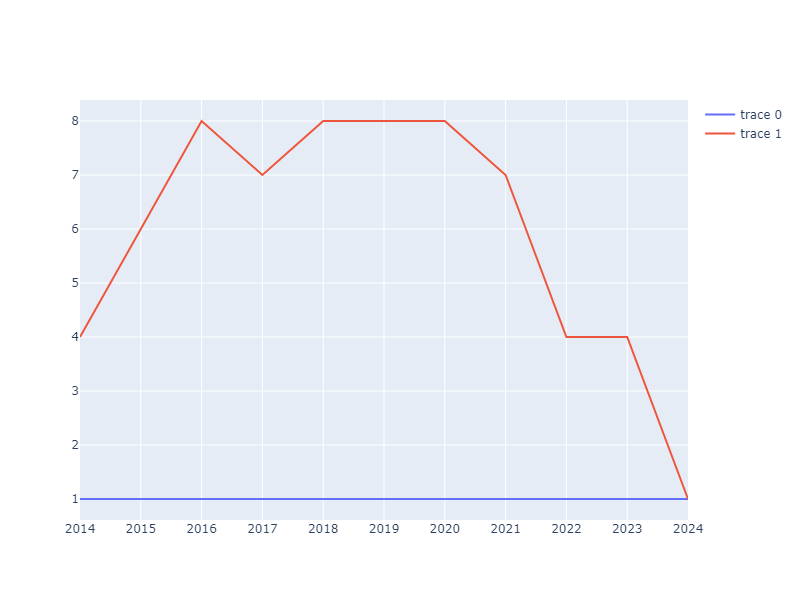
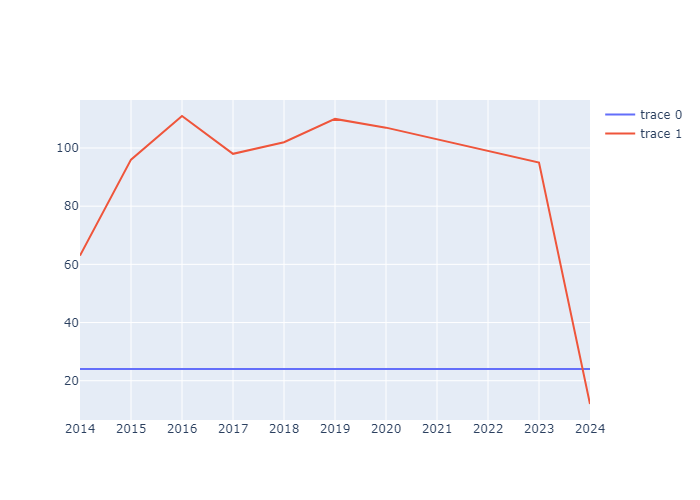
09.12.2024

diff --git a/main.py b/main.py
@@ -1,12 +1,12 @@
-from by_matplotlib import simple_mpl
+from by_matplotlib import simple_mpl, hard_mpl
 from by_seaborn import simple_sns
-# from by_plotly import simple_ptl
+from by_plotly import simple_ptl
 
 
 import sys
 import pandas as pd
 from PySide6.QtWidgets import QApplication, QMainWindow, QFileDialog
-from PySide6.QtGui import QPixmap, Qt
+from PySide6.QtGui import QPixmap
 from ui_main import Ui_MainWindow
 
 class Vis(QMainWindow):
@@ -19,7 +19,7 @@ class Vis(QMainWindow):
 
     def browse_(self):
         # Объявление глобальных переменных и диалоговое окно выбора таблицы
-        global period, norm_name, names, df_mp
+        global period, norm_name, names, df_mp, statH
         file = QFileDialog.getOpenFileName(self, caption='Открыть таблицу', filter=('Таблицы (*.xlsx)'))
 
         # Предобработка данных
@@ -44,36 +44,46 @@ class Vis(QMainWindow):
             print('Неверные импортируемые данные, проверьте таблицу на соответствие требованиям к форме')
 
     def index_changed(self, i):
-            #
+            # Задаем имя параметра для представления
             name = names[i]
 
             # Получаем список значений для представления по имени и норму
             pre_list = [int(i) for i in df_mp.iloc[names.index(name)] if type(i) is not str]
             stat = pre_list[1:]
             norm_nums = [pre_list[0] for i in stat]
+            statH = []
+            statH.clear()
+            for i in range(0, len(names)):
+                j = list(df_mp.iloc[i])
+                statH.append(j)
+
+            hard_mpl(period, statH)
 
             # Преобразуем данные в удобочитаемый датафрейм
             zip_l = list(zip(norm_nums, stat, period))
             data_l = [list(i) for i in zip_l]
             df = pd.DataFrame(data_l, columns=[norm_name, 'Факт', 'Год'])
 
-            # Выводим результаты работы MatplotLib
+            # Выводим результаты работы упрощенного графика MatplotLib
             self.ui.t_mpl_s.setText(simple_mpl(period, norm_nums, stat))
             px_simple_mpl = QPixmap('simple_plots/simple_mpl.png')
             self.ui.mpl_g_s.setScaledContents(True)
             self.resize(px_simple_mpl.width(), px_simple_mpl.height())
             self.ui.mpl_g_s.setPixmap(px_simple_mpl)
 
-            # Выводим результаты работы Seaborn
+            # Выводим результаты работы упрощенного графика Seaborn
             self.ui.t_sns_s.setText(simple_sns(df))
             px_simple_sns = QPixmap('simple_plots/simple_sns.png')
             self.ui.sns_g_s.setScaledContents(True)
             self.resize(px_simple_sns.width(), px_simple_sns.height())
             self.ui.sns_g_s.setPixmap(px_simple_sns)
 
-            # Выводим результаты работы Plotly
-            # self.ui.t_ptl_s.setText(simple_ptl(period, norm_nums, stat))
-
+            # Выводим результаты работы упрощенного графика Plotly
+            self.ui.t_ptl_s.setText(simple_ptl(period, norm_nums, stat))
+            px_simple_ptl = QPixmap('simple_plots/simple_plt.png')
+            self.ui.ptl_g_s.setScaledContents(True)
+            self.resize(px_simple_ptl.width(), px_simple_ptl.height())
+            self.ui.ptl_g_s.setPixmap(px_simple_ptl)
 
 
 

diff --git a/by_plotly.py b/by_plotly.py
@@ -1,7 +1,7 @@
 import os
 import plotly.graph_objs as go
 import datetime
-from excel_reader import *
+# from excel_reader import *
 
 
 # period - период для представления
@@ -11,16 +11,16 @@ from excel_reader import *
 # stat - статистика объекта представления
 
 
-def simple_ptl():
+def simple_ptl(period, norm_nums, stat):
     t_ptl1 = datetime.datetime.now()
     fig = go.Figure()
     fig.add_trace(go.Scatter(x=period, y=norm_nums, mode='lines'))
     fig.add_trace(go.Scatter(x=period, y=stat, mode='lines'))
-    if not os.path.exists('simple_plots/simple_mpl.png'):
+    if not os.path.exists('simple_plots/simple_plt.png'):
         os.mkdir('simple_plots/')
-    fig.write_image('simple_plots/simple_mpl.png')
+    else:
+        os.remove('simple_plots/simple_plt.png')
+    name = 'simple_plt'
+    fig.write_image(f'simple_plots/{name}.png')
     t_ptl2 = datetime.datetime.now()
-    print(f'{t_ptl2 - t_ptl1}')
-
-
-simple_ptl()
+    return f'{t_ptl2 - t_ptl1}'

diff --git a/by_matplotlib.py b/by_matplotlib.py
@@ -20,3 +20,23 @@ def simple_mpl(period, norm_nums, stat):
     plt.savefig('simple_plots/simple_mpl.png')
     t_mpl2 = datetime.datetime.now()
     return f'{t_mpl2 - t_mpl1}'
+
+# Строим усложненную таблицу
+def hard_mpl(period, statH):
+    row = []
+    for i in statH:
+        print(i)
+        m = [int(j) for j in i if i.index(j) > 1]
+        print(m)
+
+
+
+    # t_mpl1 = datetime.datetime.now()
+    # if os.path.exists('simple_plots/simple_mpl.png'):
+    #     plt.clf()
+    #     plt.close()
+    # plt.plot(period, stat)
+    # plt.plot(period, norm_nums)
+    # plt.savefig('simple_plots/simple_mpl.png')
+    # t_mpl2 = datetime.datetime.now()
+    # return f'{t_mpl2 - t_mpl1}'
